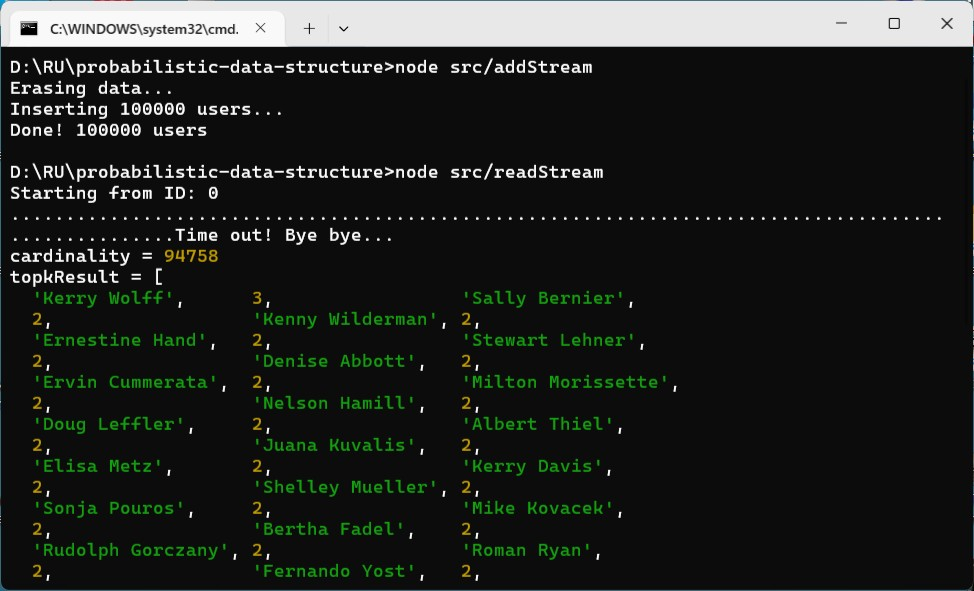
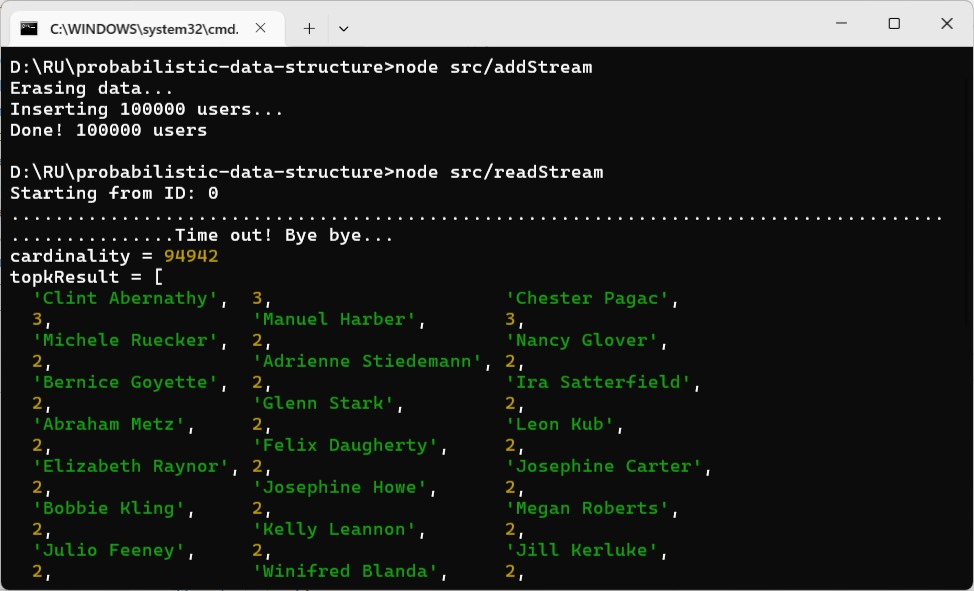
write more

diff --git a/src/readStream.js b/src/readStream.js
@@ -37,7 +37,8 @@ async function readStream() {
     console.log(`Resuming from ID: ${lastId}, processed is: ${lastProcessed}`);
 
   // TOPK.RESERVE mytopk 100 1000 10 0.999
-  await redis.sendCommand(['TOPK.RESERVE', 'PDS:demo:users:freq', '100', '1000', '10', '0.999']);
+  // TOPK.RESERVE mytopk 100 2000 15 0.9999
+  await redis.sendCommand(['TOPK.RESERVE', 'PDS:demo:users:freq', '100', '2000', '15', '0.9999']);
   while (true) {
     try {
       const results = await redis.xRead(
